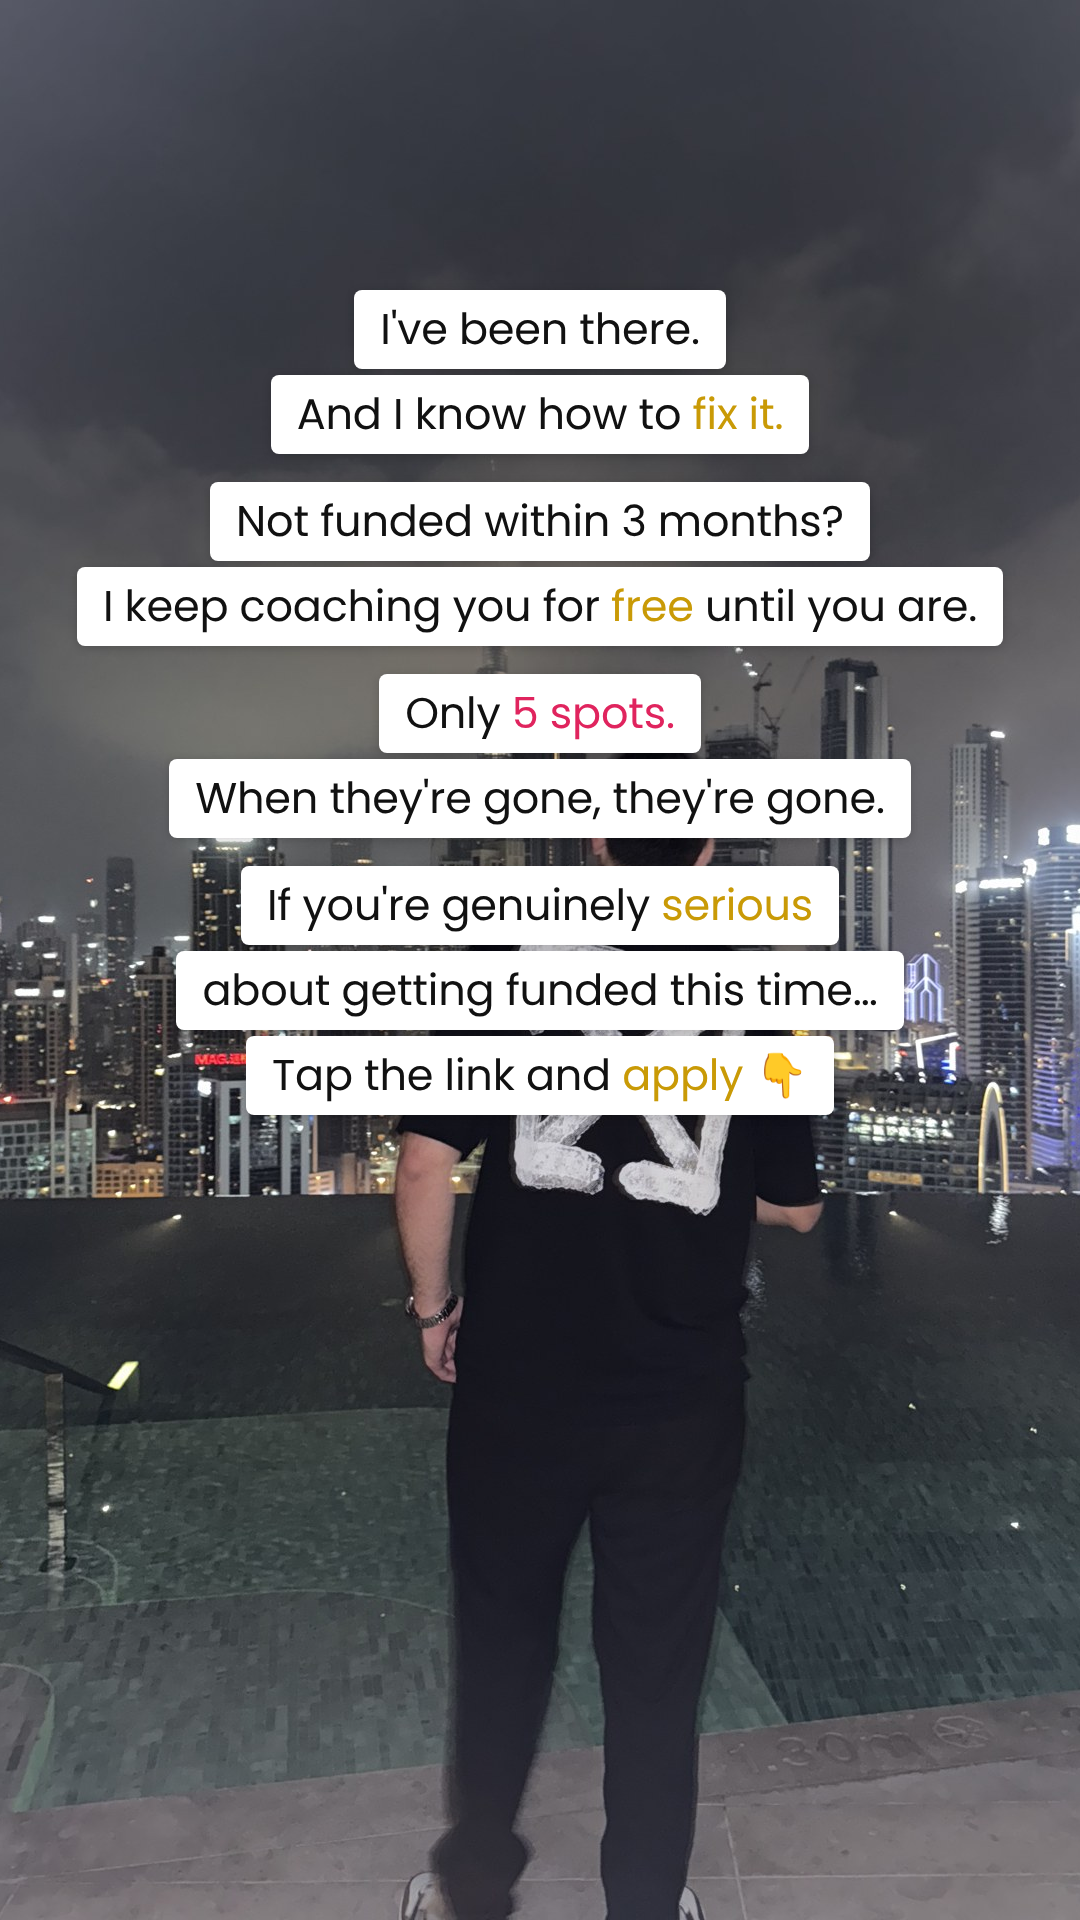
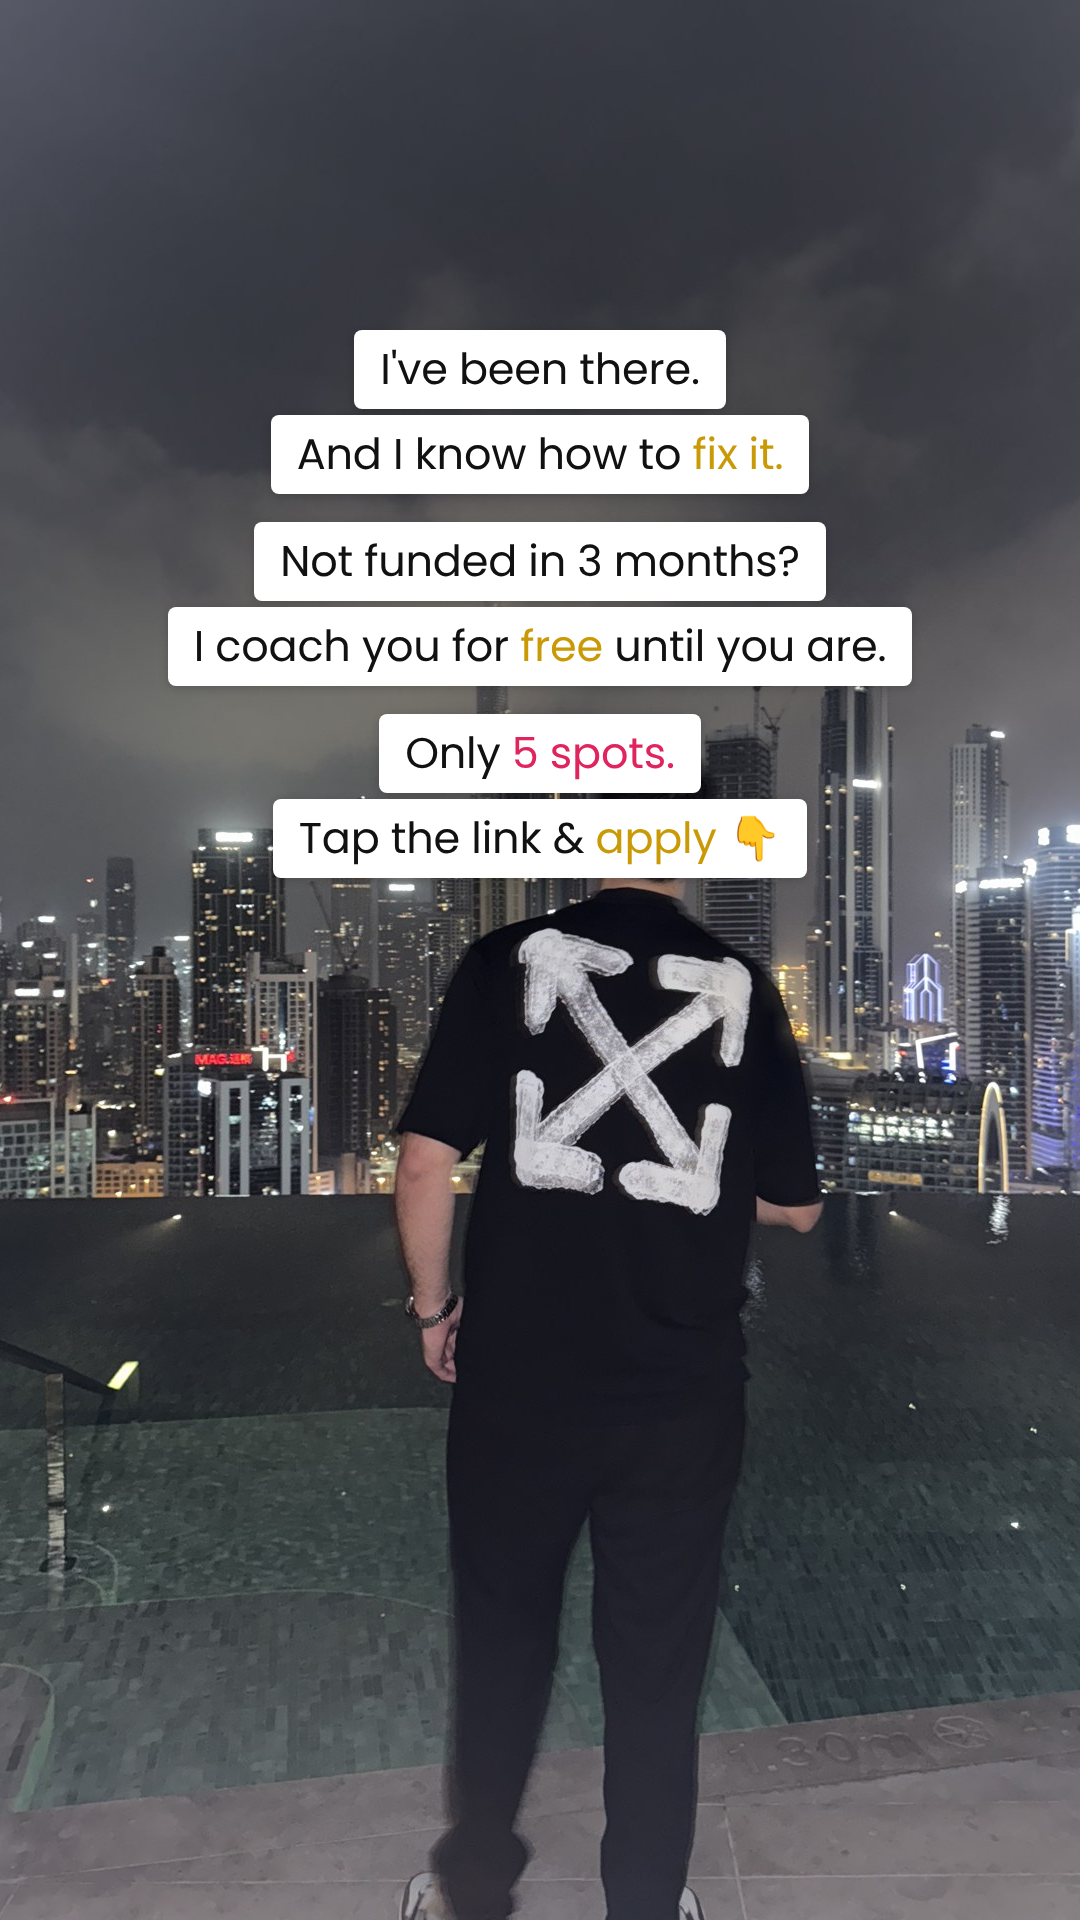
Tighten Elite mentorship sequence copy (v2) and add brand.md learnings
Claude-Session: https://claude.ai/code/session_015aTEPXDLdQUfqpoP6cz2Re

Changed region(s): [[0.0611, 0.125, 0.9472, 0.5938]]

diff --git a/sequences/2026-11-23_hard_elite-mentorship-launch/frames/02.html b/sequences/2026-11-23_hard_elite-mentorship-launch/frames/02.html
@@ -1,15 +1,10 @@
 <!doctype html><html><head><meta charset="utf-8"><link rel="stylesheet" href="style.css"></head><body>
-<div class="bg" style="background-image:url(../assets/02-cap-burj.jpg);background-position:center 30%"></div>
-<div class="stack" style="top:300px">
-<p>I know, because I almost <span class="r">quit</span> too.</p>
-<p>Crypto. Forex. ICT. A paid mentorship.</p>
-<p>I was just playing a win-rate game.</p>
-<p>Basically <span class="r">roulette.</span></p>
-<p class="gap">Then I learned order flow.</p>
-<p>Who&#39;s <span class="g">really</span> buying. Who&#39;s <span class="g">really</span> selling.</p>
-<p>Bias. Location. Order flow.</p>
-<p>No confirmation, no trade.</p>
-<p class="gap">The last 2 years?</p>
-<p>Trading has been my <span class="g">main income.</span></p>
+<div class="bg" style="background-image:url(../assets/02-car-night.jpg);"></div>
+<div class="stack" style="top:380px">
+<p>So many of you ask me how I trade.</p>
+<p class="gap">Because you&#39;re stuck where I was.</p>
+<p>Pass a challenge&hellip; <span class="r">blow it</span> a week later.</p>
+<p>Close the trade&hellip; it runs <span class="r">without you.</span></p>
+<p class="gap">It&#39;s not you. It&#39;s what you were <span class="r">taught.</span></p>
 </div>
-</body></html>
+<svg class="arrow" style="left:390px;top:1300px" viewBox="0 0 300 120"><path d="M14 70 C 90 52, 170 50, 262 64" fill="none" stroke="#f5c518" stroke-width="13" stroke-linecap="round"/><path d="M212 26 L 268 64 L 214 102" fill="none" stroke="#f5c518" stroke-width="13" stroke-linecap="round" stroke-linejoin="round"/></svg></body></html>

diff --git a/sequences/2026-11-23_hard_elite-mentorship-launch/frames/01.html b/sequences/2026-11-23_hard_elite-mentorship-launch/frames/01.html
@@ -1,14 +1,11 @@
 <!doctype html><html><head><meta charset="utf-8"><link rel="stylesheet" href="style.css"></head><body>
-<div class="bg" style="background-image:url(../assets/01-car-night.jpg);"></div>
+<div class="bg" style="background-image:url(../assets/01-yacht-dubai.jpg);"></div>
 <div class="stack" style="top:330px">
-<p>If you&#39;ve been trading for a while&hellip;</p>
-<p>You take the trade. It goes against you.</p>
-<p>You close it.</p>
-<p>Then it runs <span class="r">exactly</span> where you said.</p>
-<p>One <span class="r">red day</span> wipes out a green week.</p>
-<p>You finally pass a challenge&hellip;</p>
-<p>And the account is <span class="r">gone</span> a week later.</p>
-<p class="gap">It&#39;s probably not you.</p>
-<p>It&#39;s what you were <span class="r">taught.</span></p>
+<p>4 years ago I was working construction.</p>
+<p>Today I live in <span class="g">Dubai.</span></p>
+<p>Making more than I ever <span class="g">dreamed of.</span></p>
+<p>All from trading.</p>
+<p class="gap">But it was <span class="r">NOT</span> easy.</p>
+<p>I almost <span class="r">quit</span> more than once.</p>
 </div>
-<svg class="arrow" style="left:390px;top:1440px" viewBox="0 0 300 120"><path d="M14 70 C 90 52, 170 50, 262 64" fill="none" stroke="#f5c518" stroke-width="13" stroke-linecap="round"/><path d="M212 26 L 268 64 L 214 102" fill="none" stroke="#f5c518" stroke-width="13" stroke-linecap="round" stroke-linejoin="round"/></svg></body></html>
+</body></html>

diff --git a/sequences/2026-11-23_hard_elite-mentorship-launch/frames/03.html b/sequences/2026-11-23_hard_elite-mentorship-launch/frames/03.html
@@ -1,13 +1,10 @@
 <!doctype html><html><head><meta charset="utf-8"><link rel="stylesheet" href="style.css"></head><body>
 <div class="bg" style="background-image:url(../assets/03-boardwalk.jpg);"></div>
-<div class="stack" style="top:290px">
-<p>So I&#39;m opening my <span class="g">1-1 Elite Mentorship.</span></p>
-<p>Taking on <span class="g">5 more traders.</span> That&#39;s it.</p>
-<p class="gap">Weeks 1&ndash;8: we build your process.</p>
-<p>Weeks 9&ndash;12: I watch you trade live.</p>
-<p>Mistakes caught the <span class="g">same day.</span></p>
-<p>Not after the account is <span class="r">gone.</span></p>
-<p>Pre-market with me every morning, live.</p>
-<p class="gap">The goal: <span class="g">funded + your first payout.</span></p>
+<div class="stack" style="top:330px">
+<p><span class="g">Order flow</span> changed everything for me.</p>
+<p class="gap">So I&#39;m opening my <span class="g">1-1 Elite Mentorship.</span></p>
+<p>I&#39;ll personally help you get <span class="g">funded</span></p>
+<p>and collect your <span class="g">first payout.</span></p>
+<p class="gap">Only taking <span class="r">5 traders.</span></p>
 </div>
 </body></html>

diff --git a/sequences/2026-11-23_hard_elite-mentorship-launch/frames/04.html b/sequences/2026-11-23_hard_elite-mentorship-launch/frames/04.html
@@ -1,14 +1,11 @@
 <!doctype html><html><head><meta charset="utf-8"><link rel="stylesheet" href="style.css"></head><body>
 <div class="bg" style="background-image:url(../assets/04-rooftop.jpg);"></div>
-<div class="stack" style="top:290px">
+<div class="stack" style="top:330px">
 <p>I&#39;ve been there.</p>
 <p>And I know how to <span class="g">fix it.</span></p>
-<p class="gap">Not funded within 3 months?</p>
-<p>I keep coaching you for <span class="g">free</span> until you are.</p>
+<p class="gap">Not funded in 3 months?</p>
+<p>I coach you for <span class="g">free</span> until you are.</p>
 <p class="gap">Only <span class="r">5 spots.</span></p>
-<p>When they&#39;re gone, they&#39;re gone.</p>
-<p class="gap">If you&#39;re genuinely <span class="g">serious</span></p>
-<p>about getting funded this time&hellip;</p>
-<p>Tap the link and <span class="g">apply</span> 👇</p>
+<p>Tap the link &amp; <span class="g">apply</span> 👇</p>
 </div>
 </body></html>

diff --git a/sequences/2026-11-23_hard_elite-mentorship-launch/sequence.md b/sequences/2026-11-23_hard_elite-mentorship-launch/sequence.md
@@ -10,37 +10,30 @@
 - **References used:** `01-inspiration/hard-cta/` H1 (white native text boxes, pink = pain, gold = reward, LARP background, yellow arrow, "I've been there. And I know how to fix it." close). Copy sources: VSL script, Elite 1-1 offer deck, apply page, onboarding call, ICP research.
 - **Placeholders left:** none. To confirm: the 3-month guarantee (from the offer deck) is final.
 
-## Arc
-1. Pain callout in the buyer's own words → "it's what you were taught" (arrow)
-2. Mert almost quit too → order flow (bias, location, order flow) → main income for 2 years
-3. The offer: 1-1, 5 traders, weeks 1–8 build / 9–12 live follow-up, daily pre-market, goal = funded + first payout
-4. Guarantee + scarcity + qualifier → tap the link and apply
+## Arc (v2, tighter: 5–6 boxes per frame like the reference)
+1. Flex → vulnerability: construction → Dubai, more than he dreamed of → NOT easy, almost quit
+2. "So many of you ask how I trade" → the loop you're stuck in → "it's what you were taught" (arrow)
+3. Order flow changed everything → 1-1 Elite Mentorship → personally help you get funded + first payout → 5 traders
+4. I've been there, I know how to fix it → guarantee → 5 spots → tap the link & apply
 
 ## Frames
 
-### 01: Pain / hook
-- **Copy:** If you've been trading for a while… / You take the trade. It goes against you. / You close it. / Then it runs exactly where you said. / One red day wipes out a green week. / You finally pass a challenge… / And the account is gone a week later. / It's probably not you. / It's what you were taught.
-- **Visual:** car interior at night, yellow arrow → tap forward
-- **Assets:** `assets/01-car-night.jpg` (IMG_6405)
-- **Add in app:** nothing (optional music)
+### 01: Flex → vulnerability
+- **Copy:** 4 years ago I was working construction. / Today I live in Dubai. / Making more than I ever dreamed of. / All from trading. / But it was NOT easy. / I almost quit more than once.
+- **Assets:** `assets/01-yacht-dubai.jpg` (IMG_9990)
 
-### 02: Story / mechanism
-- **Copy:** I know, because I almost quit too. / Crypto. Forex. ICT. A paid mentorship. / I was just playing a win-rate game. / Basically roulette. / Then I learned order flow. / Who's really buying. Who's really selling. / Bias. Location. Order flow. / No confirmation, no trade. / The last 2 years? / Trading has been my main income.
-- **Visual:** Mert in NY cap, Burj behind
-- **Assets:** `assets/02-cap-burj.jpg` (IMG_3625)
-- **Add in app:** nothing
+### 02: Pain
+- **Copy:** So many of you ask me how I trade. / Because you're stuck where I was. / Pass a challenge… blow it a week later. / Close the trade… it runs without you. / It's not you. It's what you were taught. (+ yellow arrow)
+- **Assets:** `assets/02-car-night.jpg` (IMG_6405)
 
 ### 03: Offer
-- **Copy:** So I'm opening my 1-1 Elite Mentorship. / Taking on 5 more traders. That's it. / Weeks 1–8: we build your process. / Weeks 9–12: I watch you trade live. / Mistakes caught the same day. / Not after the account is gone. / Pre-market with me every morning, live. / The goal: funded + your first payout.
-- **Visual:** Mert walking the Dubai boardwalk at night
+- **Copy:** Order flow changed everything for me. / So I'm opening my 1-1 Elite Mentorship. / I'll personally help you get funded / and collect your first payout. / Only taking 5 traders.
 - **Assets:** `assets/03-boardwalk.jpg` (IMG_3780)
-- **Add in app:** nothing
 
 ### 04: Hard CTA
-- **Copy:** I've been there. / And I know how to fix it. / Not funded within 3 months? / I keep coaching you for free until you are. / Only 5 spots. / When they're gone, they're gone. / If you're genuinely serious / about getting funded this time… / Tap the link and apply 👇
-- **Visual:** Mert from behind on rooftop, skyline
+- **Copy:** I've been there. / And I know how to fix it. / Not funded in 3 months? / I coach you for free until you are. / Only 5 spots. / Tap the link & apply 👇
 - **Assets:** `assets/04-rooftop.jpg` (IMG_5401)
-- **Add in app:** **link sticker** to the apply page, text "APPLY NOW", placed on his back (~y 1150–1350)
+- **Add in app:** **link sticker** to the apply page, on his back (~y 1150–1350)
 
 ## Posting notes
 - Post all 4 back to back. Repost frame 04 the next day ("3 spots left" etc. — only if true).

diff --git a/brand.md b/brand.md
@@ -1,0 +1,13 @@
+# Mert (MertFutures): brand memory
+
+Offer, voice and learnings. Full source docs are in the `brand-docs` release.
+
+## Offer
+- 1-1 Elite Mentorship. Apply page promise: "I'm taking on 5 more traders to personally help get funded & collect their first payout." CTA = link to the application.
+- Guarantee (offer deck): not funded in 3 months → free coaching until you are. (The deck also says 6 months on one slide. Confirm.)
+
+## Story
+- Worked construction → crypto at 16 (gaming Discord) → lost on leverage 2021 → forex/ICT → order flow on ES/NQ → lives in Dubai, trading is his income.
+
+## Learnings
+- 2026-11-23: Too much text per frame. Stick to ~5–6 short boxes per frame like the hard-CTA reference. Lead with the flex (Dubai, "more than I ever dreamed of", people keep asking how I trade). Don't write flat lines like "the last 2 years it's been my main income".
